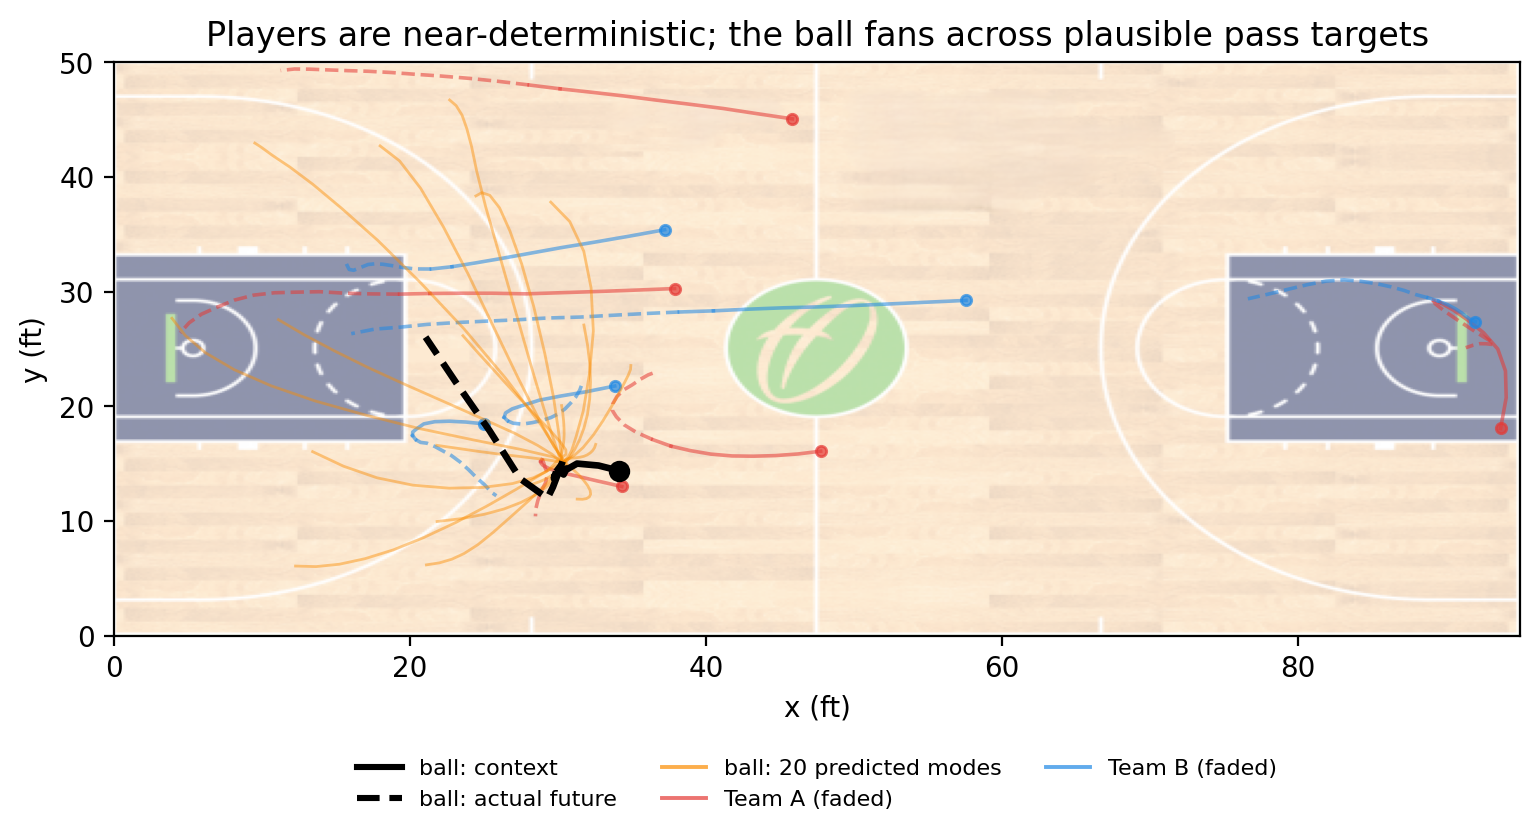
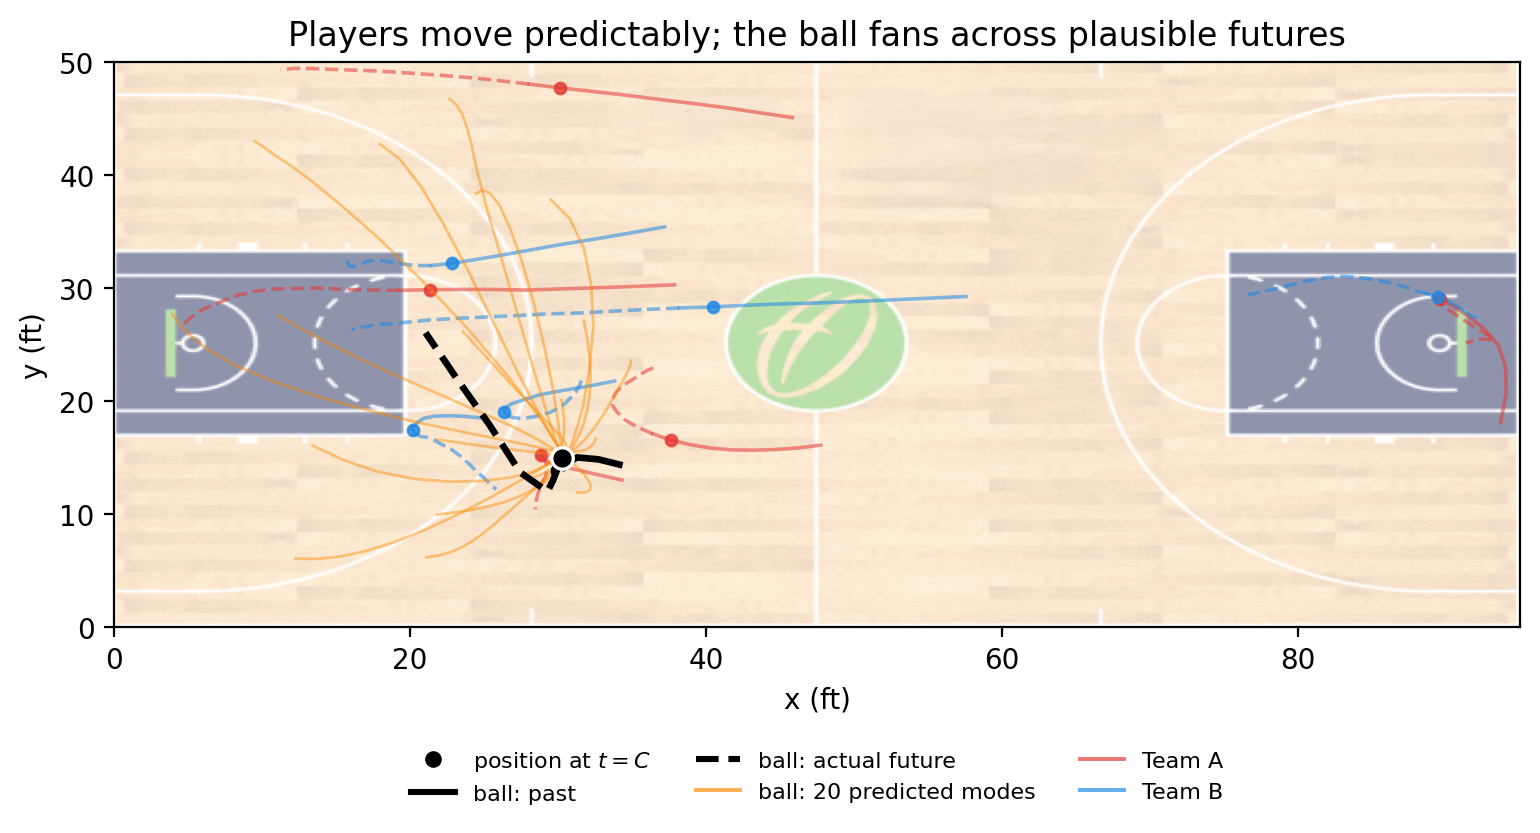
bkp

diff --git a/src/report/report.tex b/src/report/report.tex
@@ -9,6 +9,7 @@
 \usepackage{url}
 \usepackage{graphicx}
 \usepackage{booktabs}
+\usepackage{multirow}
 
 
 \title{Graph-Based Methods for Multi-Agent\\ NBA Trajectory Forecasting}
@@ -37,7 +38,7 @@ EPFL, Spring 2025/2026 \\
 \maketitle
 
 \begin{abstract}
-% 1 paragraph: task (NBA C=8 -> H=12, single-shot mean-MSE / ADE); we sweep the
+% 1 paragraph: task (NBA C=8 -> H=12, single-shot mean MSE); we sweep the
 % graph taxonomy but the paper centers on TWO winners -- EqMotion (exactly
 % O(2)-equivariant) and augmented MART (soft O(2) invariance via augmentation);
 % headline = 0.70 aug-MART + 0.30 EqMotion blend, Kaggle 2.98; central insight =
@@ -64,11 +65,13 @@ EPFL, Spring 2025/2026 \\
 %   unlabelled); Kaggle as external reference. Metric hygiene (see 4.1).
 % The metric (positions only, single-shot) is:
 \begin{equation}
-\label{eq:ade}
-\mathrm{ADE} = \frac{1}{H\times N}\sum_{t=C+1}^{C+H}\sum_{n}
+\label{eq:mse}
+\mathrm{MSE} = \frac{1}{H\times N}\sum_{t=C+1}^{C+H}\sum_{n}
 \big\lVert \hat{z}^n_t - z^n_t \big\rVert_2^2,
 \qquad \hat{z}^n_t, z^n_t \in \mathbb{R}^2 .
 \end{equation}
+% NB: the proposal/Kaggle call this "ADE", but the formula is mean SQUARED error
+% (a squared L2, not a displacement). We refer to it as MSE for accuracy.
 
 \section{Method}
 \label{sec:method}
@@ -102,38 +105,25 @@ EPFL, Spring 2025/2026 \\
 \section{Results}
 \label{sec:results}
 
-All numbers are \texttt{val/mse\_ft}: the single-shot mean squared error in
-feet$^2$ over the $H{=}12$ horizon, evaluated on the 11 real entities of the
-held-out validation fold (497 sequences), matching the Kaggle ADE definition
-(Eq.~\ref{eq:ade}). We report Kaggle scores where a submission was made.
-
-\subsection{Setup \& metric hygiene}
-\label{sec:hygiene}
-Before comparing models we fixed two measurement artifacts, each of which moved
-the apparent error by $0.2$--$0.5$~ft$^2$. \textbf{(i)~Window noise:} drawing one
-random window per sequence per epoch made \texttt{val/mse\_ft} bounce between
-$3.2$ and $3.9$ across epochs, so checkpoint-on-minimum selected lucky draws; a
-deterministic sampler with 8 evenly-spaced windows per sequence gives a stable
-selection signal. \textbf{(ii)~Landmark deflation:} when the static hoop nodes
-(Sec.~\ref{sec:eqmotion}) are added, naively averaging over all 13 nodes includes
-two near-zero-error stationary hoops and deflates the metric
-($2.82\times13/11=3.33$); a landmark-aware metric strips them so it matches the
-11-entity Kaggle score. After both fixes the validation metric tracks Kaggle
-closely (e.g.\ $3.33$ val vs $3.2$ Kaggle), and the validation$\rightarrow$Kaggle
-gap is consistently favorable ($\sim{+}0.08$, val is slightly pessimistic), so we
-treat the local fold as a trustworthy selector.
-
-% FIGURE 1 -- export from wandb: overlay val/mse_ft vs epoch for the noisy
-% single-window run vs the deterministic --full-val run (two lines). Shows the
-% selection signal stabilizing. Optional; cut first if space is tight.
+All numbers are \texttt{val/mse\_ft}: single-shot mean squared error (feet$^2$,
+$H{=}12$) on the 11 real entities of the held-out fold (497 sequences), matching
+the Kaggle metric (Eq.~\ref{eq:mse}; the proposal labels it ``ADE'' but it is an
+MSE). Two fixes make the fold a reliable selector: a deterministic multi-window
+sampler in place of a noisy single-window draw, and a metric that excludes the
+static hoop nodes (Sec.~\ref{sec:eqmotion}) from the average. The
+val$\rightarrow$Kaggle gap is then consistent ($\sim{+}0.08$, val slightly
+pessimistic).
 
 \subsection{Main comparison}
 \label{sec:main-results}
 Table~\ref{tab:main} collects the families we explored. Two patterns stand out.
-First, every graph model that predicts a single trajectory beats the non-graph
-temporal baseline, while the multimodal generative models (STGCNN-CVAE,
-SocialVAE) \emph{lose}: they optimise best-of-$K$ (minADE), whereas the leaderboard
-scores a single-shot mean, which rewards predicting the conditional mean.
+First, the strong point predictors (STGCNN, EqMotion, MART) beat the non-graph
+transformer baseline, but graph structure alone is not enough: the
+learned-dynamic-graph dNRI ($\sim$5.5) barely edges the baseline, and the
+multimodal VAEs (STGCNN-CVAE, SocialVAE) trail the point predictors. The metric
+rewards the conditional mean, and MART -- though trained with a best-of-$K$
+(minADE) loss like the VAEs -- recovers that mean by averaging its $K$ diverse
+heads (mean-of-$K$), whereas the sampled VAE outputs estimate it less well.
 Second, our two strongest models come from opposite ends of the equivariance
 spectrum (Sec.~\ref{sec:tradeoff}): the exactly-O(2)-equivariant EqMotion and the
 non-equivariant augmented MART. The augmented MART backbone alone
@@ -144,15 +134,19 @@ $0.70$\,/\,$0.30$ blend of the two is our production submission at
 \begin{table}[t]
 \caption{Main comparison across model families. Lower is better; \texttt{val}
 is feet$^2$ on the held-out fold, \texttt{Kaggle} is the public leaderboard.
-The production blend combines the two best models (Sec.~\ref{sec:tradeoff}).}
+STGCNN, EqMotion and MART are Optuna-tuned (Appendix~\ref{sec:hp}); the STGCNN
+entry is its tuned top-5 retrain + TTA ensemble. The production blend combines
+the two best models (Sec.~\ref{sec:tradeoff}).}
 \label{tab:main}
 \begin{center}
 \begin{tabular}{llcc}
 \toprule
 \textbf{Family} & \textbf{Model} & \textbf{val} & \textbf{Kaggle} \\
 \midrule
-Non-graph        & Temporal baseline                 & $\sim$3.7 & -- \\
-Fixed graph      & STGCNN (pos.\ graph + autoreg.)   & $\sim$3.8 & -- \\
+Non-graph        & Transformer + velocity            & $\sim$5.8 & 5.79 \\
+Fixed graph      & STGCNN (tuned, TTA ensemble)      & $\sim$3.8 & -- \\
+Dynamic graph    & dNRI (learned, single)            & $\sim$5.5 & 5.48 \\
+Dynamic graph    & dNRI (learned, ensemble)          & $\sim$5.3 & 5.22 \\
 Multimodal       & STGCNN-CVAE                       & 4.3       & -- \\
 Multimodal       & SocialVAE                         & 5.0       & -- \\
 Hypergraph       & MART (300 ep, fair baseline)      & 3.79      & -- \\
@@ -169,11 +163,18 @@ Hypergraph       & \quad + D2 test-time augmentation & 3.08      & -- \\
 
 \subsection{Ablations on the winners}
 \label{sec:ablations}
+All three models in this section have their
+architecture and optimization hyperparameters chosen by Optuna (TPE) studies
+rather than by hand; full search spaces, selection metrics and winning
+configurations are in Appendix~\ref{sec:hp}.
+
 \textbf{What the symmetry buys (EqMotion).} Starting from an anisotropically
 normalized baseline ($3.69$), isotropic normalization, which restores exact O(2)
 equivariance, drops the error to $3.46$, and adding the two court-frame hoop
 nodes drops it further to $3.33$ -- the single biggest structural lever
-(Table~\ref{tab:abl}, left). Hoops are the \emph{right amount} of court
+(Table~\ref{tab:abl}, left). These deltas are on top of an Optuna-tuned EqMotion
+configuration, and the top trials were statistically tied, so the structural
+levers (normalization, hoops), not the continuous hyperparameters, dominate. Hoops are the \emph{right amount} of court
 structure: adding free-throw lines, three-point apexes or corners all hurt
 monotonically (e.g.\ $3.33\rightarrow3.36\rightarrow3.42$), because those points
 sit on the basket axis already encoded by the hoops and merely dilute message
@@ -188,17 +189,17 @@ EqMotion cannot: scale. Table~\ref{tab:abl} (right) shows error falling
 monotonically as the schedule lengthens ($3.79\rightarrow3.55\rightarrow
 3.47\rightarrow3.11$) with a 7.5M-parameter model that shows \emph{zero}
 overfitting (train$\,\approx\,$val$\,\approx\,0.026$). Two diagnostics confirm
-$3.11$ is a genuine model/data floor rather than a tuning artifact: budget-matched
-SGDR warm restarts tie it ($3.116$), and a 10k-epoch single-cosine run does not
-beat it. The remaining free gains come from variance reduction orthogonal to the
+$3.11$ is a model/data floor rather than a tuning artifact: budget-matched SGDR
+warm restarts tie it ($3.116$), and a 10k-epoch single-cosine run does not beat
+it. The remaining free gains come from variance reduction orthogonal to the
 backbone: D2 test-time augmentation ($-0.03$, and its non-zero per-transform
 spread \emph{measures} aug-MART's departure from exact equivariance) and the
 EqMotion blend ($-0.04$).
 
 \begin{table}[t]
 \caption{Ablations on the two winning models. \textbf{Left:} EqMotion structural
-levers (honest 11-entity metric). \textbf{Right:} augmented MART scaling --
-augmentation is what lets the larger model and longer schedule pay off.}
+levers. \textbf{Right:} augmented MART scaling -- augmentation is what lets the
+larger model and longer schedule pay off.}
 \label{tab:abl}
 \begin{center}
 \begin{tabular}{lc@{\hspace{2.5em}}lc}
@@ -250,16 +251,15 @@ learned per-agent head selector (re-run on the \emph{best} model, still only
 $-5\%$), possession-anchoring (the ground-truth-handler oracle is $2\times$
 \emph{worse} than the model), constant-velocity physics ($61.6$, the ball is
 strongly non-ballistic), residual boosting, and direct \texttt{mean\_mse}
-regression -- the ball MSE never leaves the $13$--$14$~ft$^2$ band. The
-\texttt{mean\_mse} run is decisive (Fig.~\ref{fig:loss}): optimising the
-single-shot target directly \emph{overfits} (best $3.20$ then climbing to $3.58$)
-and loses to $3.11$, so the head-averaged conditional mean is already the
-best-regularized estimator.
-This also closes the generative lever: any point-estimate generative model
-(MDN, flow-matching, diffusion) must submit the conditional mean under a
-single-shot mean-MSE metric, and that target cannot beat $3.11$. The published
-MoFlow/SocialVAE NBA wins are all on minADE (best-of-$K$), which our metric
-structurally cannot exploit. The residual error is thus irreducible ball
+regression -- the ball MSE never leaves the $13$--$14$~ft$^2$ band. Direct
+\texttt{mean\_mse} regression is the clearest case (Fig.~\ref{fig:loss}):
+optimising the single-shot target overfits (best $3.20$, then climbing to $3.58$)
+and loses to $3.11$, so MART's head-averaged mean is the better-regularized
+estimate of the conditional mean. This also bounds generative models: any
+point-estimate model (MDN, flow-matching, diffusion) submits the conditional mean
+under a single-shot metric, and that target cannot beat $3.11$. Published
+MoFlow/SocialVAE NBA results report best-of-$K$ (minADE) over many samples -- a
+protocol our single-submission setup cannot use. The residual error is thus irreducible ball
 multimodality -- which player receives the pass, and when -- that an 8-frame past
 simply does not determine (Fig.~\ref{fig:play}); an oracle that picks the best of
 MART's $K$ heads per sample reaches $0.45$~ft$^2$, but the winning mode sits in the
@@ -299,11 +299,10 @@ is a property of the data, not of either model.}
 \begin{center}
 \includegraphics[width=0.92\linewidth]{fig4.png}
 \end{center}
-\caption{One play. Players (faded) follow near-deterministic paths the model
-recovers tightly, but the ball's $K{=}20$ predicted modes (orange) fan out toward
-distinct plausible pass targets, only one of which is realized (black dashed).
-The mean of these modes is far from every one of them -- the source of the
-irreducible ball error.}
+\caption{One play (context solid, future dashed, dot $=$ position at $t{=}C$).
+Players follow paths the model recovers tightly; the ball's $K{=}20$ modes
+(orange) fan toward distinct futures, only one realized (black). Their mean is far
+from each -- the source of the ball error.}
 \label{fig:play}
 \end{figure}
 
@@ -317,7 +316,76 @@ irreducible ball error.}
 \appendix
 \section{Appendix}
 \label{sec:appendix}
-% Extra tables, hyperparameters, reproducibility details.
+
+\subsection{Hyperparameter search}
+\label{sec:hp}
+The three tuned models (STGCNN, EqMotion, MART) each use an Optuna study with a
+TPE sampler and SQLite-backed persistence; the per-model search spaces, budgets
+and selection metrics are in Table~\ref{tab:hp}. Two protocol details matter for
+interpreting the results. (i)~\textbf{STGCNN} is tuned directly on the Kaggle
+metric \texttt{val/mse\_ft} with median pruning (60 trials, 50 epochs each); the
+top-5 trials are then retrained at 250 epochs and combined with court-symmetry
+test-time augmentation into the single ensemble reported in
+Table~\ref{tab:main}. (ii)~\textbf{MART}'s search is ranked by the \emph{last}
+epoch's mean-of-$K$ error rather than the best epoch (to avoid double-dipping the
+validation signal) with no pruner, followed by a 100-epoch retrain of the
+winning configuration. \textbf{EqMotion} is pruned on \texttt{val/loss} with a
+median pruner (40 trials, 50 epochs); its top trials were statistically tied
+(val/loss $0.0134$--$0.0135$), confirming the model is insensitive to these
+knobs within range and that the structural levers in Sec.~\ref{sec:ablations}
+are what move the metric. The augmented 7.5M MART backbone
+(Sec.~\ref{sec:augmart}) is a deliberately hand-scaled configuration, not an
+Optuna output.
+
+\begin{table}[h]
+\caption{Optuna search spaces. ``cat'' = categorical choice set, ``log'' =
+log-uniform continuous range.}
+\label{tab:hp}
+\begin{center}
+\small
+\begin{tabular}{lll}
+\toprule
+\textbf{Model} & \textbf{Searched hyperparameter} & \textbf{Range / choices} \\
+\midrule
+\multirow{8}{*}{EqMotion}
+ & hidden\_nf            & cat $\{32, 64, 128, 256\}$ \\
+ & hid\_channel         & cat $\{8, 16, 32, 64\}$ \\
+ & n\_layers            & int $[2, 5]$ \\
+ & learning rate        & log $[10^{-4}, 10^{-2}]$ \\
+ & weight decay         & log $[10^{-6}, 10^{-2}]$ \\
+ & batch size           & cat $\{32, 64, 128\}$ \\
+ & gradient clip        & $[0.25, 2.0]$ \\
+\cmidrule(l){2-3}
+ & \emph{selection / budget} & val/loss, median pruning, 40 trials $\times$ 50 ep \\
+\midrule
+\multirow{8}{*}{MART}
+ & learning rate        & log $[10^{-4}, 10^{-3}]$ \\
+ & weight decay         & log $[10^{-10}, 10^{-4}]$ \\
+ & dropout              & cat $\{0.0, 0.1, 0.2\}$ \\
+ & num\_layers          & cat $\{2, 3, 4\}$ \\
+ & model\_dim           & cat $\{32, 64, 128\}$ \\
+ & hidden\_dim          & cat $\{64, 128, 256\}$ \\
+ & decoder\_hidden\_dim & cat $\{64, 128, 256\}$ \\
+\cmidrule(l){2-3}
+ & \emph{selection / budget} & last-epoch mean-$K$ MSE, no pruner, 40 $\times$ 80 ep, retrain 100 ep \\
+\midrule
+\multirow{11}{*}{STGCNN}
+ & graph\_space         & cat $\{$pos, vel, both$\}$ \\
+ & decoder              & cat $\{$autoreg, txp$\}$ \\
+ & n\_stgcnn            & int $[1, 3]$ \\
+ & hidden\_feat         & cat $\{32, 64, 128\}$ \\
+ & kernel\_size         & cat $\{3, 5\}$ \\
+ & n\_txpcnn            & cat $\{3, 5, 7\}$ \\
+ & learning rate        & log $[10^{-4}, 3\!\times\!10^{-3}]$ \\
+ & weight decay         & log $[10^{-7}, 10^{-3}]$ \\
+ & batch size           & cat $\{64, 128, 256\}$ \\
+ & augmentation         & cat $\{$on, off$\}$ \\
+\cmidrule(l){2-3}
+ & \emph{selection / budget} & val/mse\_ft, median pruning, 60 $\times$ 50 ep, top-5 retrain @250 ep + TTA \\
+\bottomrule
+\end{tabular}
+\end{center}
+\end{table}
 
 \iffalse
 % ====== ORIGINAL ICLR FORMATTING TEMPLATE (kept for reference) ======

diff --git a/src/report/make_report_figs.py b/src/report/make_report_figs.py
@@ -108,6 +108,8 @@ print(f"[fig4] window {idx}: ball travel {travel[idx]:.1f} ft, K-endpoint spread
 
 fig, ax = plt.subplots(figsize=(7.8, 4.4))
 setup_court(ax)
+# Convention: solid line = past context (leads INTO the dot), dot = position at
+# the prediction instant t=C, dashed/fan = future (leads OUT of the dot).
 # Players first, de-emphasized, so the ball reads as the focus.
 for n in range(11):
     if n == BALL:
@@ -117,7 +119,7 @@ for n in range(11):
     ax.plot(p[:, 0], p[:, 1], "-", color=col, lw=1.3, alpha=0.55, zorder=2)
     ax.plot([p[-1, 0], g[0, 0]], [p[-1, 1], g[0, 1]], "-", color=col, lw=1.3, alpha=0.55, zorder=2)
     ax.plot(g[:, 0], g[:, 1], "--", color=col, lw=1.3, alpha=0.55, zorder=2)
-    ax.scatter(p[0, 0], p[0, 1], s=14, color=col, alpha=0.7, zorder=3)
+    ax.scatter(p[-1, 0], p[-1, 1], s=16, color=col, alpha=0.8, zorder=3)            # present (t=C)
 
 # Ball: faint orange K modes underneath, then bold context + GT on top.
 for k in range(kpreds_ft.shape[2]):
@@ -127,18 +129,21 @@ pb = to_display(past_ft[idx, BALL]); gb = to_display(tgt_ft[idx, BALL])
 ax.plot(pb[:, 0], pb[:, 1], "-", color="k", lw=2.4, zorder=6)                      # ball context
 ax.plot([pb[-1, 0], gb[0, 0]], [pb[-1, 1], gb[0, 1]], "--", color="k", lw=2.4, zorder=6)
 ax.plot(gb[:, 0], gb[:, 1], "--", color="k", lw=2.4, zorder=6)                     # ball GT future
-ax.scatter(pb[0, 0], pb[0, 1], s=45, color="k", zorder=7, label="_")              # ball start
+ax.scatter(pb[-1, 0], pb[-1, 1], s=60, color="k", zorder=7,                        # ball present (t=C)
+           marker="o", edgecolors="white", linewidths=1.2)
 
 handles = [
-    plt.Line2D([0], [0], color="k", lw=2.2, ls="-", label="ball: context"),
+    plt.Line2D([0], [0], marker="o", color="k", lw=0, markersize=7,
+               markeredgecolor="white", label="position at $t{=}C$"),
+    plt.Line2D([0], [0], color="k", lw=2.2, ls="-", label="ball: past"),
     plt.Line2D([0], [0], color="k", lw=2.2, ls="--", label="ball: actual future"),
     plt.Line2D([0], [0], color="#FB8C00", lw=1.4, alpha=0.7, label="ball: 20 predicted modes"),
-    plt.Line2D([0], [0], color="#E53935", lw=1.4, alpha=0.7, label="Team A (faded)"),
-    plt.Line2D([0], [0], color="#1E88E5", lw=1.4, alpha=0.7, label="Team B (faded)"),
+    plt.Line2D([0], [0], color="#E53935", lw=1.4, alpha=0.7, label="Team A"),
+    plt.Line2D([0], [0], color="#1E88E5", lw=1.4, alpha=0.7, label="Team B"),
 ]
 ax.legend(handles=handles, loc="upper center", bbox_to_anchor=(0.5, -0.18),
           ncol=3, frameon=False, fontsize=8)
-ax.set_title("Players are near-deterministic; the ball fans across plausible pass targets")
+ax.set_title("Players move predictably; the ball fans across plausible futures")
 fig.tight_layout()
 fig.savefig(OUT / "fig4.png", dpi=200, bbox_inches="tight")
 plt.close(fig)
